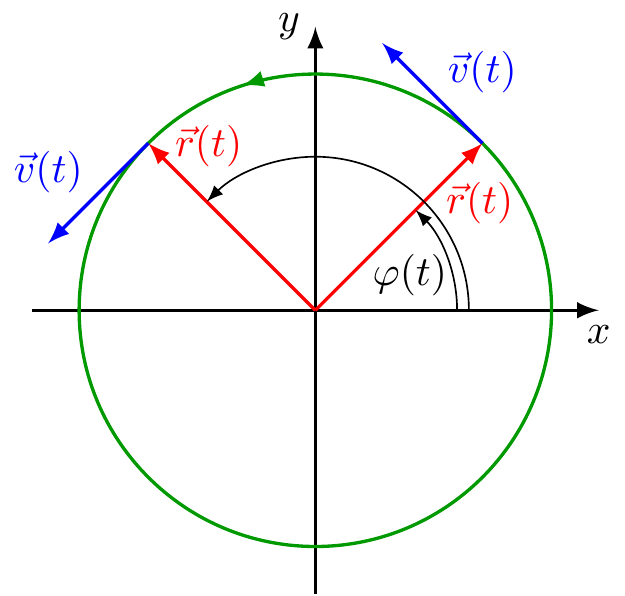
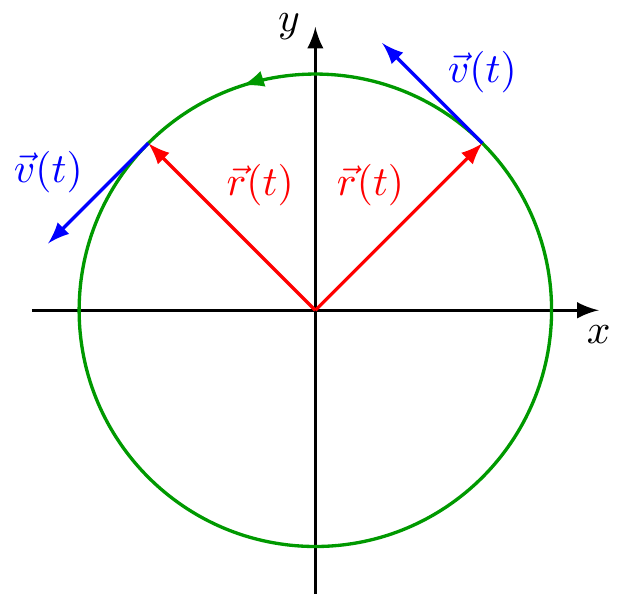
remove angles

Changed region(s): [[0.608, 0.302, 0.8208, 0.5134], [0.2736, 0.2114, 0.4864, 0.3322], [0.456, 0.2416, 0.6688, 0.3322]]

diff --git a/mechanics/circular-motion-velocity-2/circular-motion-velocity-2.tex b/mechanics/circular-motion-velocity-2/circular-motion-velocity-2.tex
@@ -17,15 +17,10 @@
     thick
   ] (0,0) circle (1);
   % 1
-  \draw[->,thick,red] (0,0) -- (45:1);
-  \node[red] at (33:0.83) {$\place(t)$};
+  \draw[->,thick,red] (0,0) -- node[left,yshift=1em,xshift=0.5em] {$\place(t)$} (45:1);
   \draw[->,thick,blue] (45:1) -- node[right,yshift=0.5em]{$\velocity(t)$} +(135:0.6);
-  \draw[->] (0.6,0) arc (0:45:0.6);
-  \draw (0.4,0) node[above] {$\varphi(t)$};
   % 2
-  \draw[->,thick,red] (0,0) -- (135:1);
-  \node[red] at (123:0.83) {$\place(t)$};
+  \draw[->,thick,red] (0,0) -- node[right,yshift=1em,xshift=-0.5em] {$\place(t)$} (135:1);
   \draw[->,thick,blue] (135:1) -- node[left,yshift=0.5em]{$\velocity(t)$} +(225:0.6);
-  \draw[->] (0.65,0) arc (0:135:0.65);
 \end{tikzpicture}
 \end{document}

diff --git a/mechanics/circular-motion-velocity-2/circular-motion-velocity-2_inverted.tex b/mechanics/circular-motion-velocity-2/circular-motion-velocity-2_inverted.tex
@@ -26,15 +26,10 @@
     thick
   ] (0,0) circle (1);
   % 1
-  \draw[->,thick,red] (0,0) -- (45:1);
-  \node[red] at (33:0.83) {$\place(t)$};
+  \draw[->,thick,red] (0,0) -- node[left,yshift=1em,xshift=0.5em] {$\place(t)$} (45:1);
   \draw[->,thick,blue] (45:1) -- node[right,yshift=0.5em]{$\velocity(t)$} +(135:0.6);
-  \draw[->] (0.6,0) arc (0:45:0.6);
-  \draw (0.4,0) node[above] {$\varphi(t)$};
   % 2
-  \draw[->,thick,red] (0,0) -- (135:1);
-  \node[red] at (123:0.83) {$\place(t)$};
+  \draw[->,thick,red] (0,0) -- node[right,yshift=1em,xshift=-0.5em] {$\place(t)$} (135:1);
   \draw[->,thick,blue] (135:1) -- node[left,yshift=0.5em]{$\velocity(t)$} +(225:0.6);
-  \draw[->] (0.65,0) arc (0:135:0.65);
 \end{tikzpicture}
 \end{document}

diff --git a/mechanics.md b/mechanics.md
@@ -141,16 +141,11 @@
     thick
   ] (0,0) circle (1);
   % 1
-  \draw[->,thick,red] (0,0) -- (45:1);
-  \node[red] at (33:0.83) {$\place(t)$};
+  \draw[->,thick,red] (0,0) -- node[left,yshift=1em,xshift=0.5em] {$\place(t)$} (45:1);
   \draw[->,thick,blue] (45:1) -- node[right,yshift=0.5em]{$\velocity(t)$} +(135:0.6);
-  \draw[->] (0.6,0) arc (0:45:0.6);
-  \draw (0.4,0) node[above] {$\varphi(t)$};
   % 2
-  \draw[->,thick,red] (0,0) -- (135:1);
-  \node[red] at (123:0.83) {$\place(t)$};
+  \draw[->,thick,red] (0,0) -- node[right,yshift=1em,xshift=-0.5em] {$\place(t)$} (135:1);
   \draw[->,thick,blue] (135:1) -- node[left,yshift=0.5em]{$\velocity(t)$} +(225:0.6);
-  \draw[->] (0.65,0) arc (0:135:0.65);
 \end{tikzpicture}
 \end{document}
 ~~~
@@ -775,16 +770,11 @@
     thick
   ] (0,0) circle (1);
   % 1
-  \draw[->,thick,red] (0,0) -- (45:1);
-  \node[red] at (33:0.83) {$\place(t)$};
+  \draw[->,thick,red] (0,0) -- node[left,yshift=1em,xshift=0.5em] {$\place(t)$} (45:1);
   \draw[->,thick,blue] (45:1) -- node[right,yshift=0.5em]{$\velocity(t)$} +(135:0.6);
-  \draw[->] (0.6,0) arc (0:45:0.6);
-  \draw (0.4,0) node[above] {$\varphi(t)$};
   % 2
-  \draw[->,thick,red] (0,0) -- (135:1);
-  \node[red] at (123:0.83) {$\place(t)$};
+  \draw[->,thick,red] (0,0) -- node[right,yshift=1em,xshift=-0.5em] {$\place(t)$} (135:1);
   \draw[->,thick,blue] (135:1) -- node[left,yshift=0.5em]{$\velocity(t)$} +(225:0.6);
-  \draw[->] (0.65,0) arc (0:135:0.65);
 \end{tikzpicture}
 \end{document}
 ~~~
